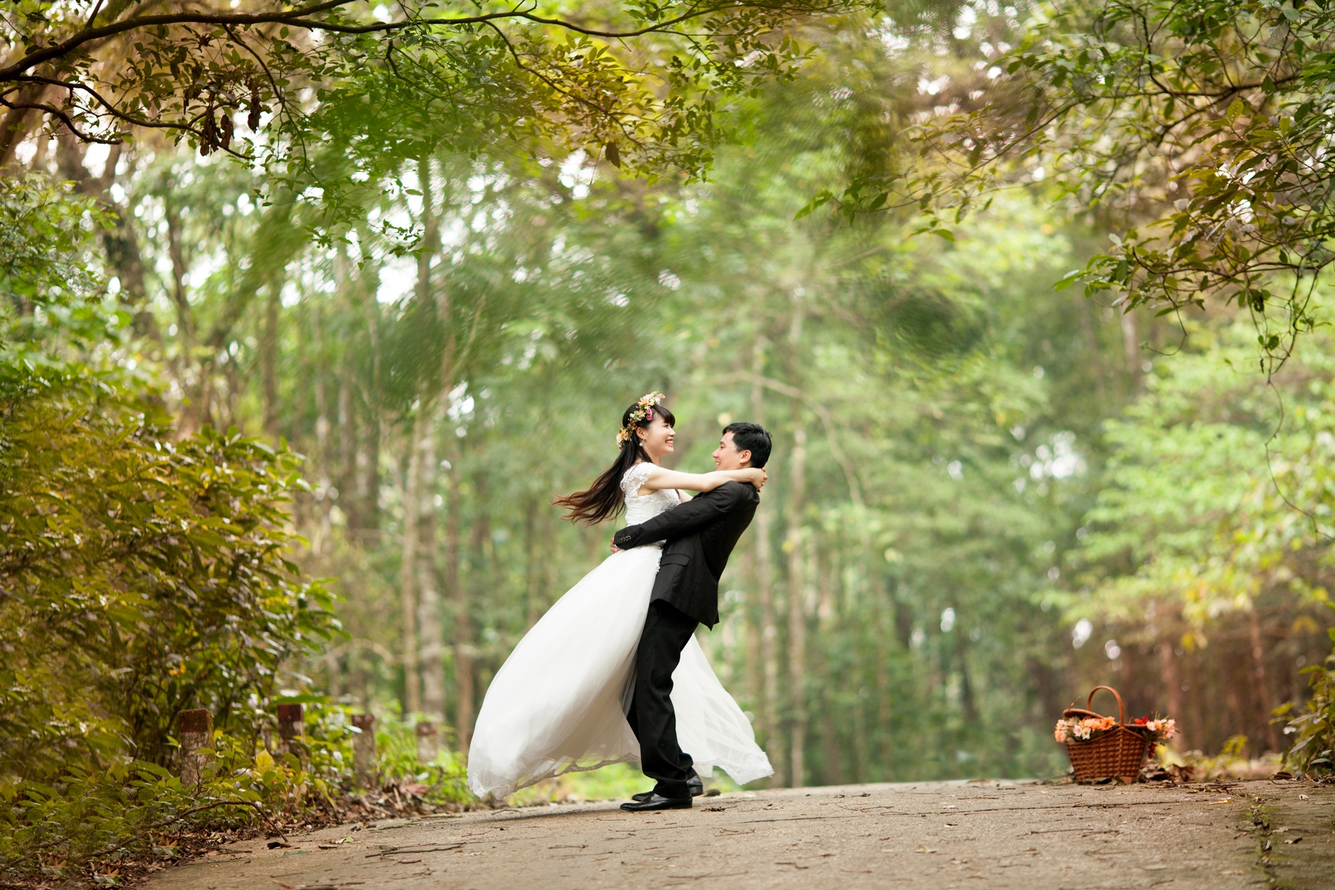
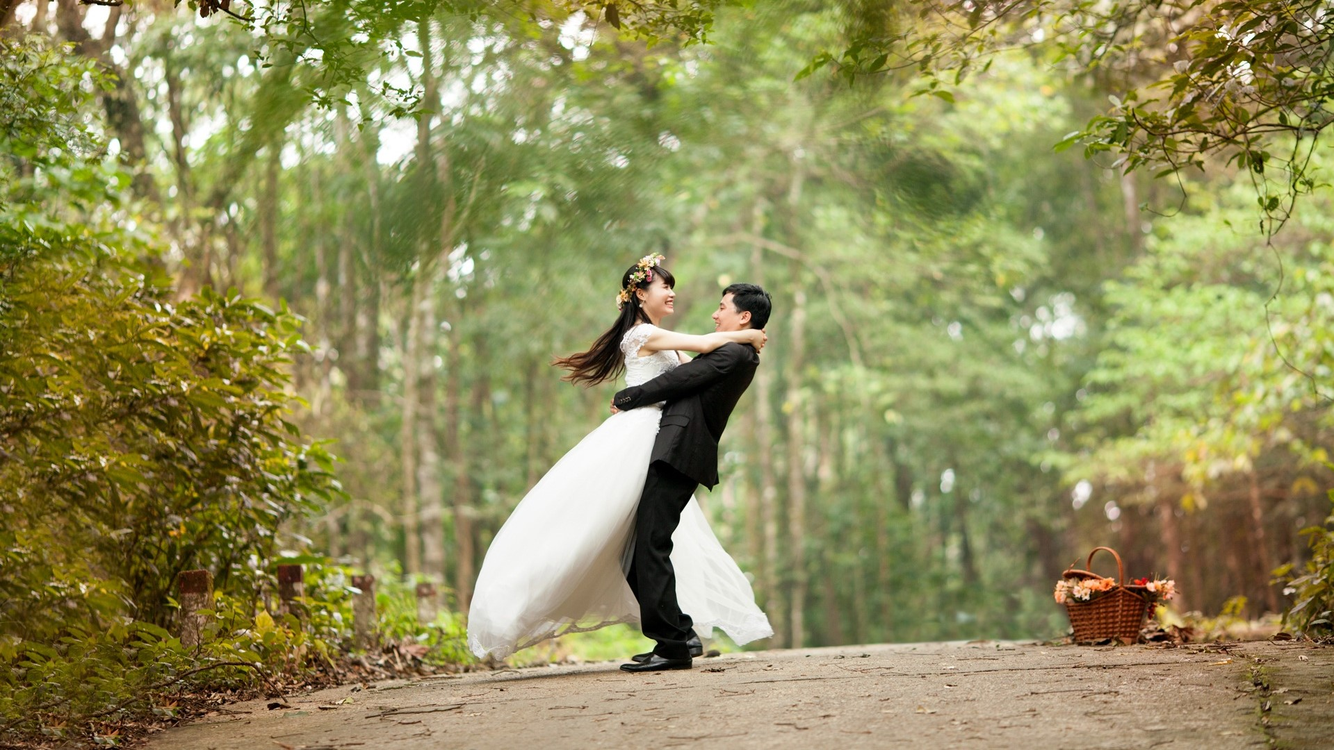
Finishing changes, navbar and images changed
Fixed the navbar collapse problem, resized the images in order to make the carousel slider work better.

diff --git a/index.html b/index.html
@@ -16,32 +16,33 @@
 </head>
 <body>
     <!-- Main menu -->
-    <nav class="navbar navbar-expand-xl fixed-top navbar-light bg-light">
-        <div class="container-fluid p-2">
-          <a class="navbar-brand animate__animated animate__fadeInRight" href="#"><span class="brand">Бидермајер</span></a>
-          <button class="navbar-toggler" type="button" data-bs-toggle="collapse" data-bs-target="#mainmenu" aria-controls="mainmenu" aria-expanded="false" aria-label="Toggle navigation">
-            <span class="navbar-toggler-icon"></span>
-          </button>
-          <div class="collapse navbar-collapse" id="mainmenu">
-            <ul class="navbar-nav position-absolute top-50 start-50 translate-middle lista">
-              <li class="nav-item">
-                <a class="nav-link mx-2 my-auto active animate__animated animate__bounce" aria-current="page" href="#">Почетак</a>
-              </li>
-              <li class="nav-item">
-                <a class="nav-link mx-2 my-auto animate__animated animate__bounce" href="#onama">О Нама</a>
-              </li>
-              <li class="nav-item">
-                <a class="nav-link mx-3 my-auto animate__animated animate__bounce" href="#galerija">Галерија</a>
-              </li>
-              <li class="nav-item">
-                <a class="nav-link mx-3 my-auto animate__animated animate__bounce" href="#kontakt">Контакт</a>
-              </li>
-              <li>
-                <button type="button" class="nav-item izvori btn btn-primary px-4 my-auto mx-2 animate__animated animate__bounce" data-bs-toggle="modal" data-bs-target="#credits">Извори</button>
-              </li>
-            </ul>
-          </div>
+    
+    <nav class="navbar navbar-expand-lg navbar-light bg-light fixed-top">
+      <div class="container-fluid p-3">
+        <a class="navbar-brand animate__animated animate__fadeInRight wow" data-wow-delay="0.5s" href="#"><span class="brand">Бидермајер</span></a>
+        <button class="navbar-toggler" type="button" data-bs-toggle="collapse" data-bs-target="#navbarSupportedContent" aria-controls="navbarSupportedContent" aria-expanded="false" aria-label="Toggle navigation">
+          <span class="navbar-toggler-icon"></span>
+        </button>
+        <div class="collapse navbar-collapse" id="navbarSupportedContent">
+          <ul class="navbar-nav me-auto mb-2 mb-lg-0 mainmenu">
+            <li class="nav-item">
+              <a class="nav-link mx-2 my-auto active animate__animated animate__bounce" aria-current="page" href="#">Почетак</a>
+            </li>
+            <li class="nav-item">
+              <a class="nav-link mx-2 my-auto animate__animated animate__bounce" href="#onama">О Нама</a>
+            </li>
+            <li class="nav-item">
+              <a class="nav-link mx-3 my-auto animate__animated animate__bounce" href="#galerija">Галерија</a>
+            </li>
+            <li class="nav-item">
+              <a class="nav-link mx-3 my-auto animate__animated animate__bounce" href="#kontakt">Контакт</a>
+            </li>
+            <li>
+              <button type="button" class="nav-item izvori btn btn-primary px-4 my-auto mx-2 animate__animated animate__bounce" data-bs-toggle="modal" data-bs-target="#credits">Извори</button>
+            </li>
+          </ul>
         </div>
+      </div>
     </nav>
     <!-- Modal for credits-->
     <div class="modal fade" id="credits" tabindex="-1" aria-labelledby="ModalLabel" aria-hidden="true">
@@ -78,13 +79,13 @@
             </div>
             <div class="carousel-inner">
               <div class="carousel-item active">
-                <img src="images/sliderimg1.jpg" class="d-block w-100 img1" alt="image 1">
+                <img src="images/sliderimg1.jpg" class="d-block w-100" alt="image 1">
               </div>
               <div class="carousel-item">
                 <img src="images/sliderimg2.jpg" class="d-block w-100" alt="image 2">
               </div>
               <div class="carousel-item">
-                <img src="images/sliderimg3.jpg" class="d-block w-100 img3" alt="image 3">
+                <img src="images/sliderimg3.jpg" class="d-block w-100" alt="image 3">
               </div>
             </div>
             <button class="carousel-control-prev" type="button" data-bs-target="#slider" data-bs-slide="prev">

diff --git a/style.css b/style.css
@@ -33,15 +33,12 @@ body{
 .carousel-item img{
     height: 40vw;
     object-fit: cover;
+    object-position: bottom;
 }
-@media screen and (min-width: 1200px) {
-    .img1{
-        object-position: 0 -450px;
+@media screen and (min-width: 900px) {
+    .mainmenu{
+        margin-left: 16vw;
     }
-    .img3{
-        object-position: 0 -500px;
-    }
-    
 }
 #slidersection{
     margin-top: 57px;
